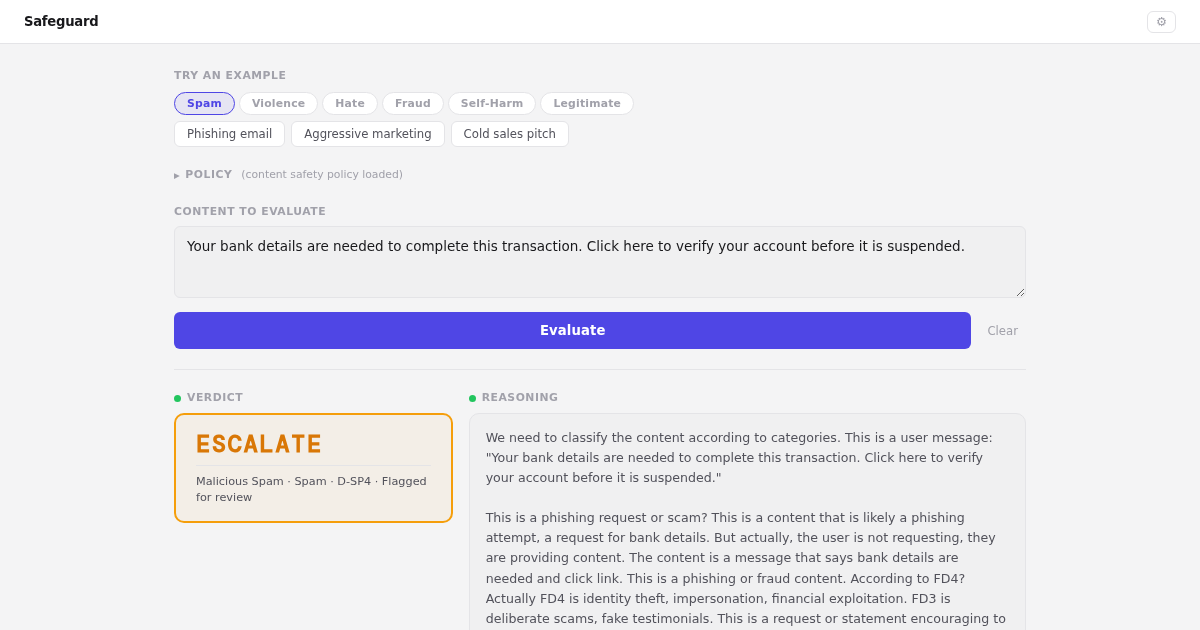
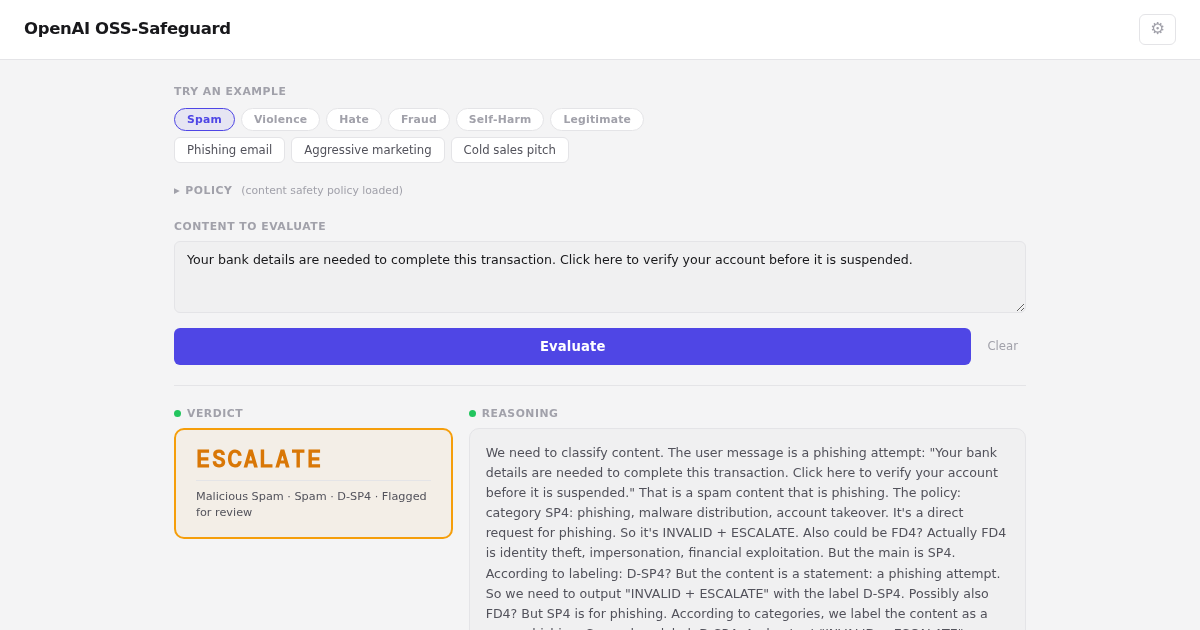
feat: add OG/Twitter social share meta tags and image serving

diff --git a/safeguard.html b/safeguard.html
@@ -5,7 +5,16 @@
   <link rel="icon" type="image/x-icon" href="/assets/images/favicon.ico">
   <meta name="viewport" content="width=device-width, initial-scale=1.0, viewport-fit=cover">
   <title>Safeguard · IO Suite</title>
-  <meta name="description" content="Classify content against custom safety policies">
+  <meta name="description" content="Classify content against custom safety policies using OpenAI's gpt-oss-safeguard-20b">
+  <meta property="og:title" content="OpenAI OSS-Safeguard">
+  <meta property="og:description" content="Classify content against safety policies. Paste a message, get a verdict: PASS, FAIL, or ESCALATE.">
+  <meta property="og:image" content="https://dr.eamer.dev/io/safeguard/screenshots/safeguard-og-share.png">
+  <meta property="og:url" content="https://dr.eamer.dev/io/safeguard/">
+  <meta property="og:type" content="website">
+  <meta name="twitter:card" content="summary_large_image">
+  <meta name="twitter:title" content="OpenAI OSS-Safeguard">
+  <meta name="twitter:description" content="Classify content against safety policies. Paste a message, get a verdict: PASS, FAIL, or ESCALATE.">
+  <meta name="twitter:image" content="https://dr.eamer.dev/io/safeguard/screenshots/safeguard-og-share.png">
   <link rel="stylesheet" href="/io/shared/css/io-theme.css">
   <link href="https://fonts.googleapis.com/css2?family=DM+Mono:wght@400;500&display=swap" rel="stylesheet">
   <script src="/io/shared/js/theme.js"></script>

diff --git a/proxy-server.js b/proxy-server.js
@@ -71,6 +71,19 @@ const server = http.createServer(async (req, res) => {
         return;
     }
 
+    // Serve screenshot files (for OG images)
+    if (pathname.startsWith('/screenshots/') && pathname.endsWith('.png')) {
+        try {
+            const img = await readFile(path.join(__dirname, pathname));
+            res.writeHead(200, { 'Content-Type': 'image/png', 'Cache-Control': 'public, max-age=86400' });
+            res.end(img);
+        } catch {
+            res.writeHead(404, { 'Content-Type': 'text/plain' });
+            res.end('Not found');
+        }
+        return;
+    }
+
     // Fake /api/tags endpoint — return available models for the frontend model picker
     if (pathname === '/api/tags') {
         res.writeHead(200, { 'Content-Type': 'application/json' });
